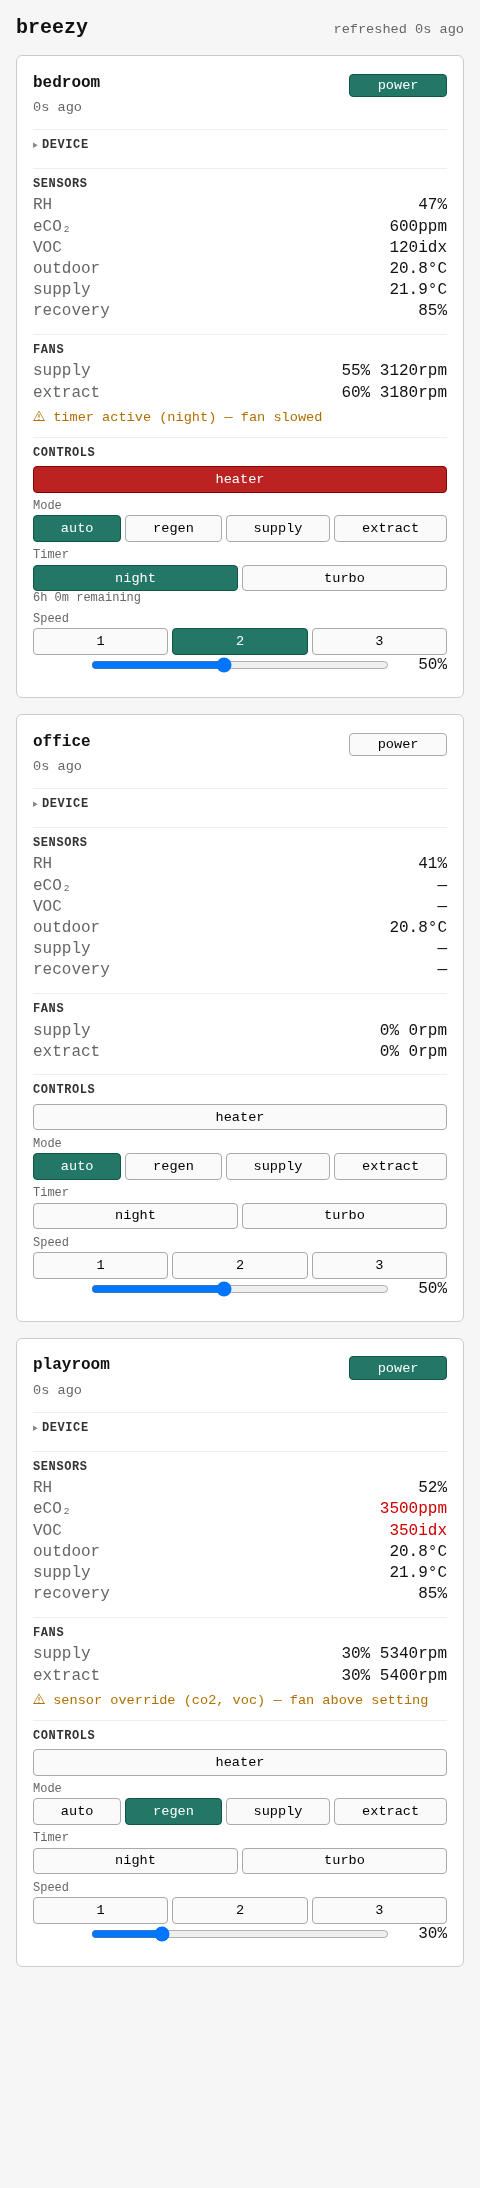
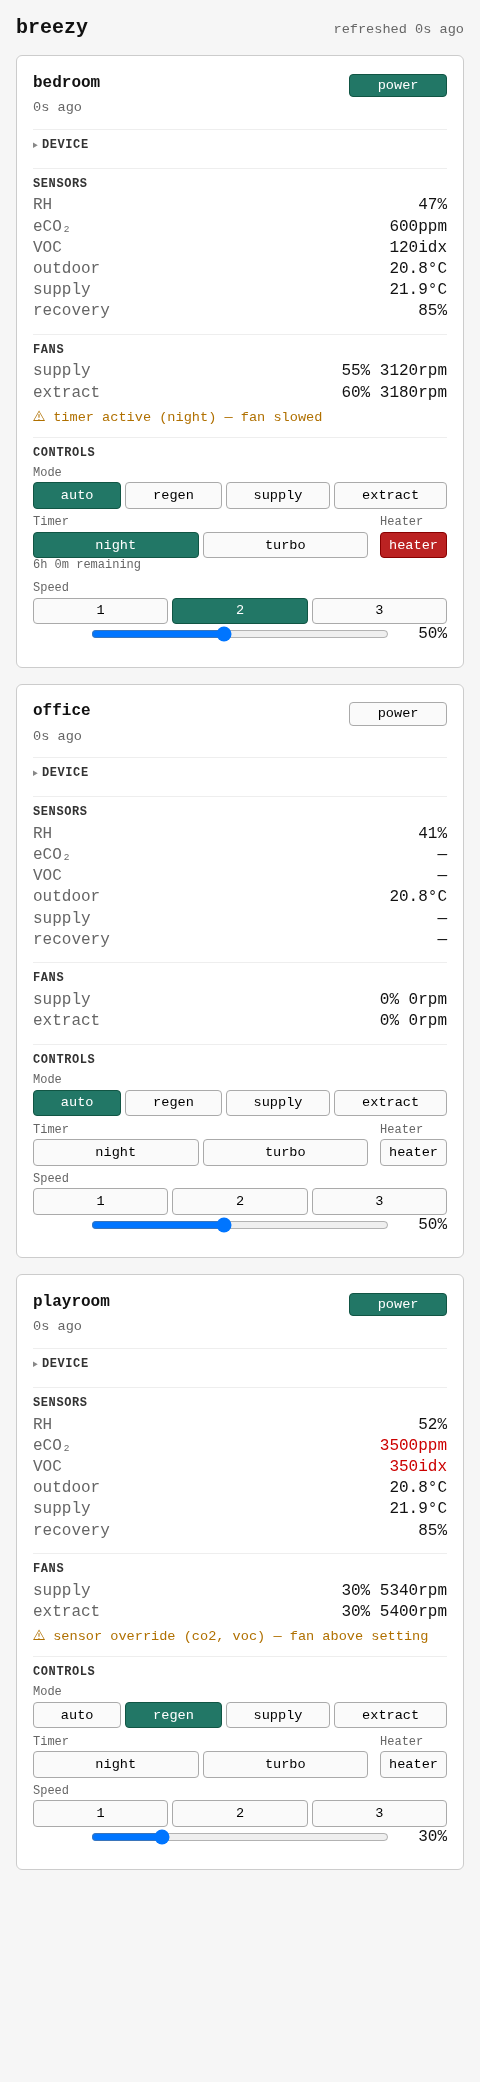
ui: heater joins the Timer row; drop the empty Power+Heater 2x1 wrapper
The Timer .ctrl block becomes a .ctrl-pair flex container with two
labelled groups: Timer (night/turbo) on the left, Heater (heater) on
the right. Each keeps its own .ctrl-label so the user can tell them
apart even though they share a row.

Also removes the now-empty .ctrl wrapper at the top of the Controls
block (Power left in #17, Heater leaves in this PR). Folds #19's
cleanup into the same change since shipping the empty wrapper for
one PR review cycle would be visible dead space.

Click semantics unchanged: handlers route by data-action, so timer
mutex and heater independence are preserved.

diff --git a/cmd/breezyd/ui/index.html b/cmd/breezyd/ui/index.html
@@ -109,6 +109,11 @@
      widths), sits on the right of the device-name row instead of
      stretching full-width. */
   .toggle-inline { width: auto; padding: 0.2rem 0.8rem; min-width: 12ch; }
+  /* ctrl-pair: two labelled groups side-by-side in one .ctrl row.
+     Used by Timer + Heater so they share a row but keep distinct labels. */
+  .ctrl-pair { display: flex; gap: 0.75rem; align-items: flex-start; }
+  .ctrl-group-timer { flex: 1 1 auto; min-width: 0; }
+  .ctrl-group-heater { flex: 0 0 auto; }
   .alert-fire { color: #c00; }
   .value-clickable { cursor: pointer; }
   .value-clickable:hover {
@@ -450,18 +455,6 @@ function renderControls(name, snap, stale) {
     <h3>Controls</h3>
 
     <div class="ctrl">
-      <div class="toggle-row">
-        <div class="toggle-cell">
-          <button class="toggle" data-action="heater" data-name="${esc(name)}" ${dis}
-            aria-pressed="${heater ? "true" : "false"}">
-            heater
-          </button>
-          ${t.heater ? `<div class="toast" role="alert">${esc(t.heater)}</div>` : ""}
-        </div>
-      </div>
-    </div>
-
-    <div class="ctrl">
       <span class="ctrl-label">Mode</span>
       <div class="seg">
         ${modeBtn("auto",    "ventilation")}
@@ -472,16 +465,26 @@ function renderControls(name, snap, stale) {
       ${t.mode ? `<div class="toast" role="alert">${esc(t.mode)}</div>` : ""}
     </div>
 
-    <div class="ctrl">
-      <span class="ctrl-label">Timer</span>
-      <div class="seg">
-        ${timerBtn("night", "night")}
-        ${timerBtn("turbo", "turbo")}
+    <div class="ctrl ctrl-pair">
+      <div class="ctrl-group ctrl-group-timer">
+        <span class="ctrl-label">Timer</span>
+        <div class="seg">
+          ${timerBtn("night", "night")}
+          ${timerBtn("turbo", "turbo")}
+        </div>
+        ${specialMode !== "off" && typeof remainingSecs === "number"
+          ? `<div class="ctrl-label">${esc(humanSeconds(remainingSecs))} remaining</div>`
+          : ""}
+        ${t.timer ? `<div class="toast" role="alert">${esc(t.timer)}</div>` : ""}
       </div>
-      ${specialMode !== "off" && typeof remainingSecs === "number"
-        ? `<div class="ctrl-label">${esc(humanSeconds(remainingSecs))} remaining</div>`
-        : ""}
-      ${t.timer ? `<div class="toast" role="alert">${esc(t.timer)}</div>` : ""}
+      <div class="ctrl-group ctrl-group-heater">
+        <span class="ctrl-label">Heater</span>
+        <div class="seg">
+          <button class="toggle" data-action="heater" data-name="${esc(name)}" ${dis}
+            aria-pressed="${heater ? "true" : "false"}">heater</button>
+        </div>
+        ${t.heater ? `<div class="toast" role="alert">${esc(t.heater)}</div>` : ""}
+      </div>
     </div>
 
     <div class="ctrl">